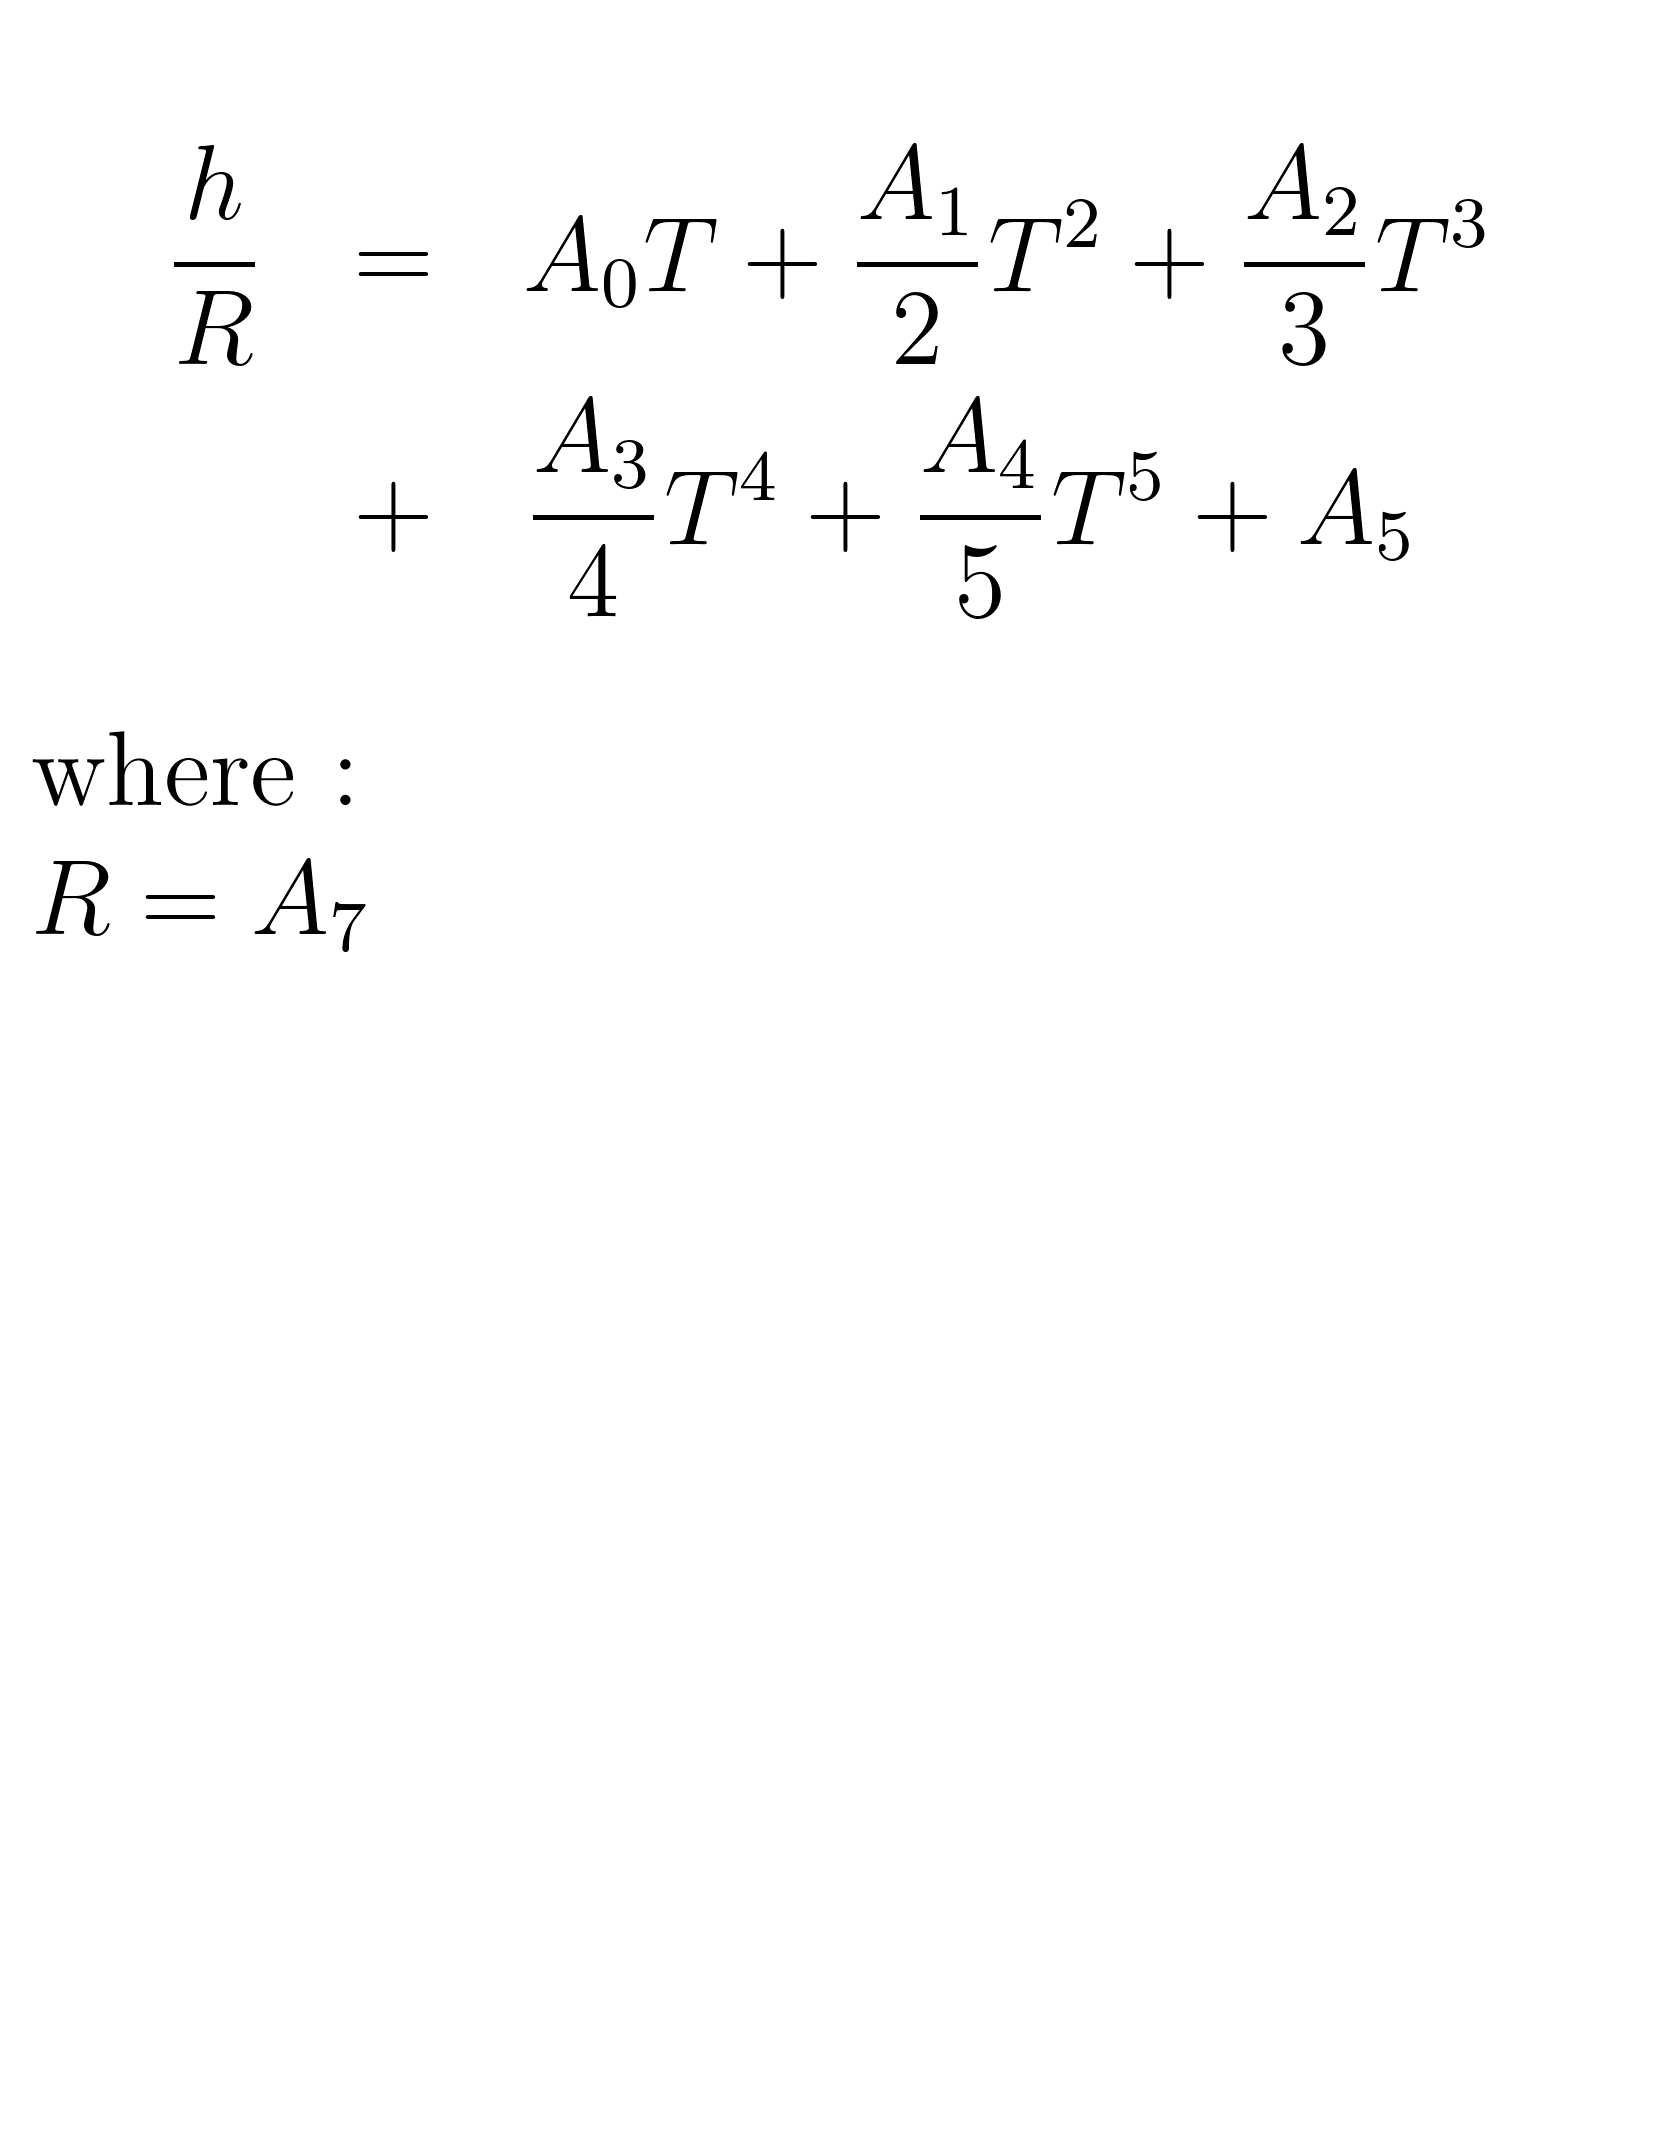
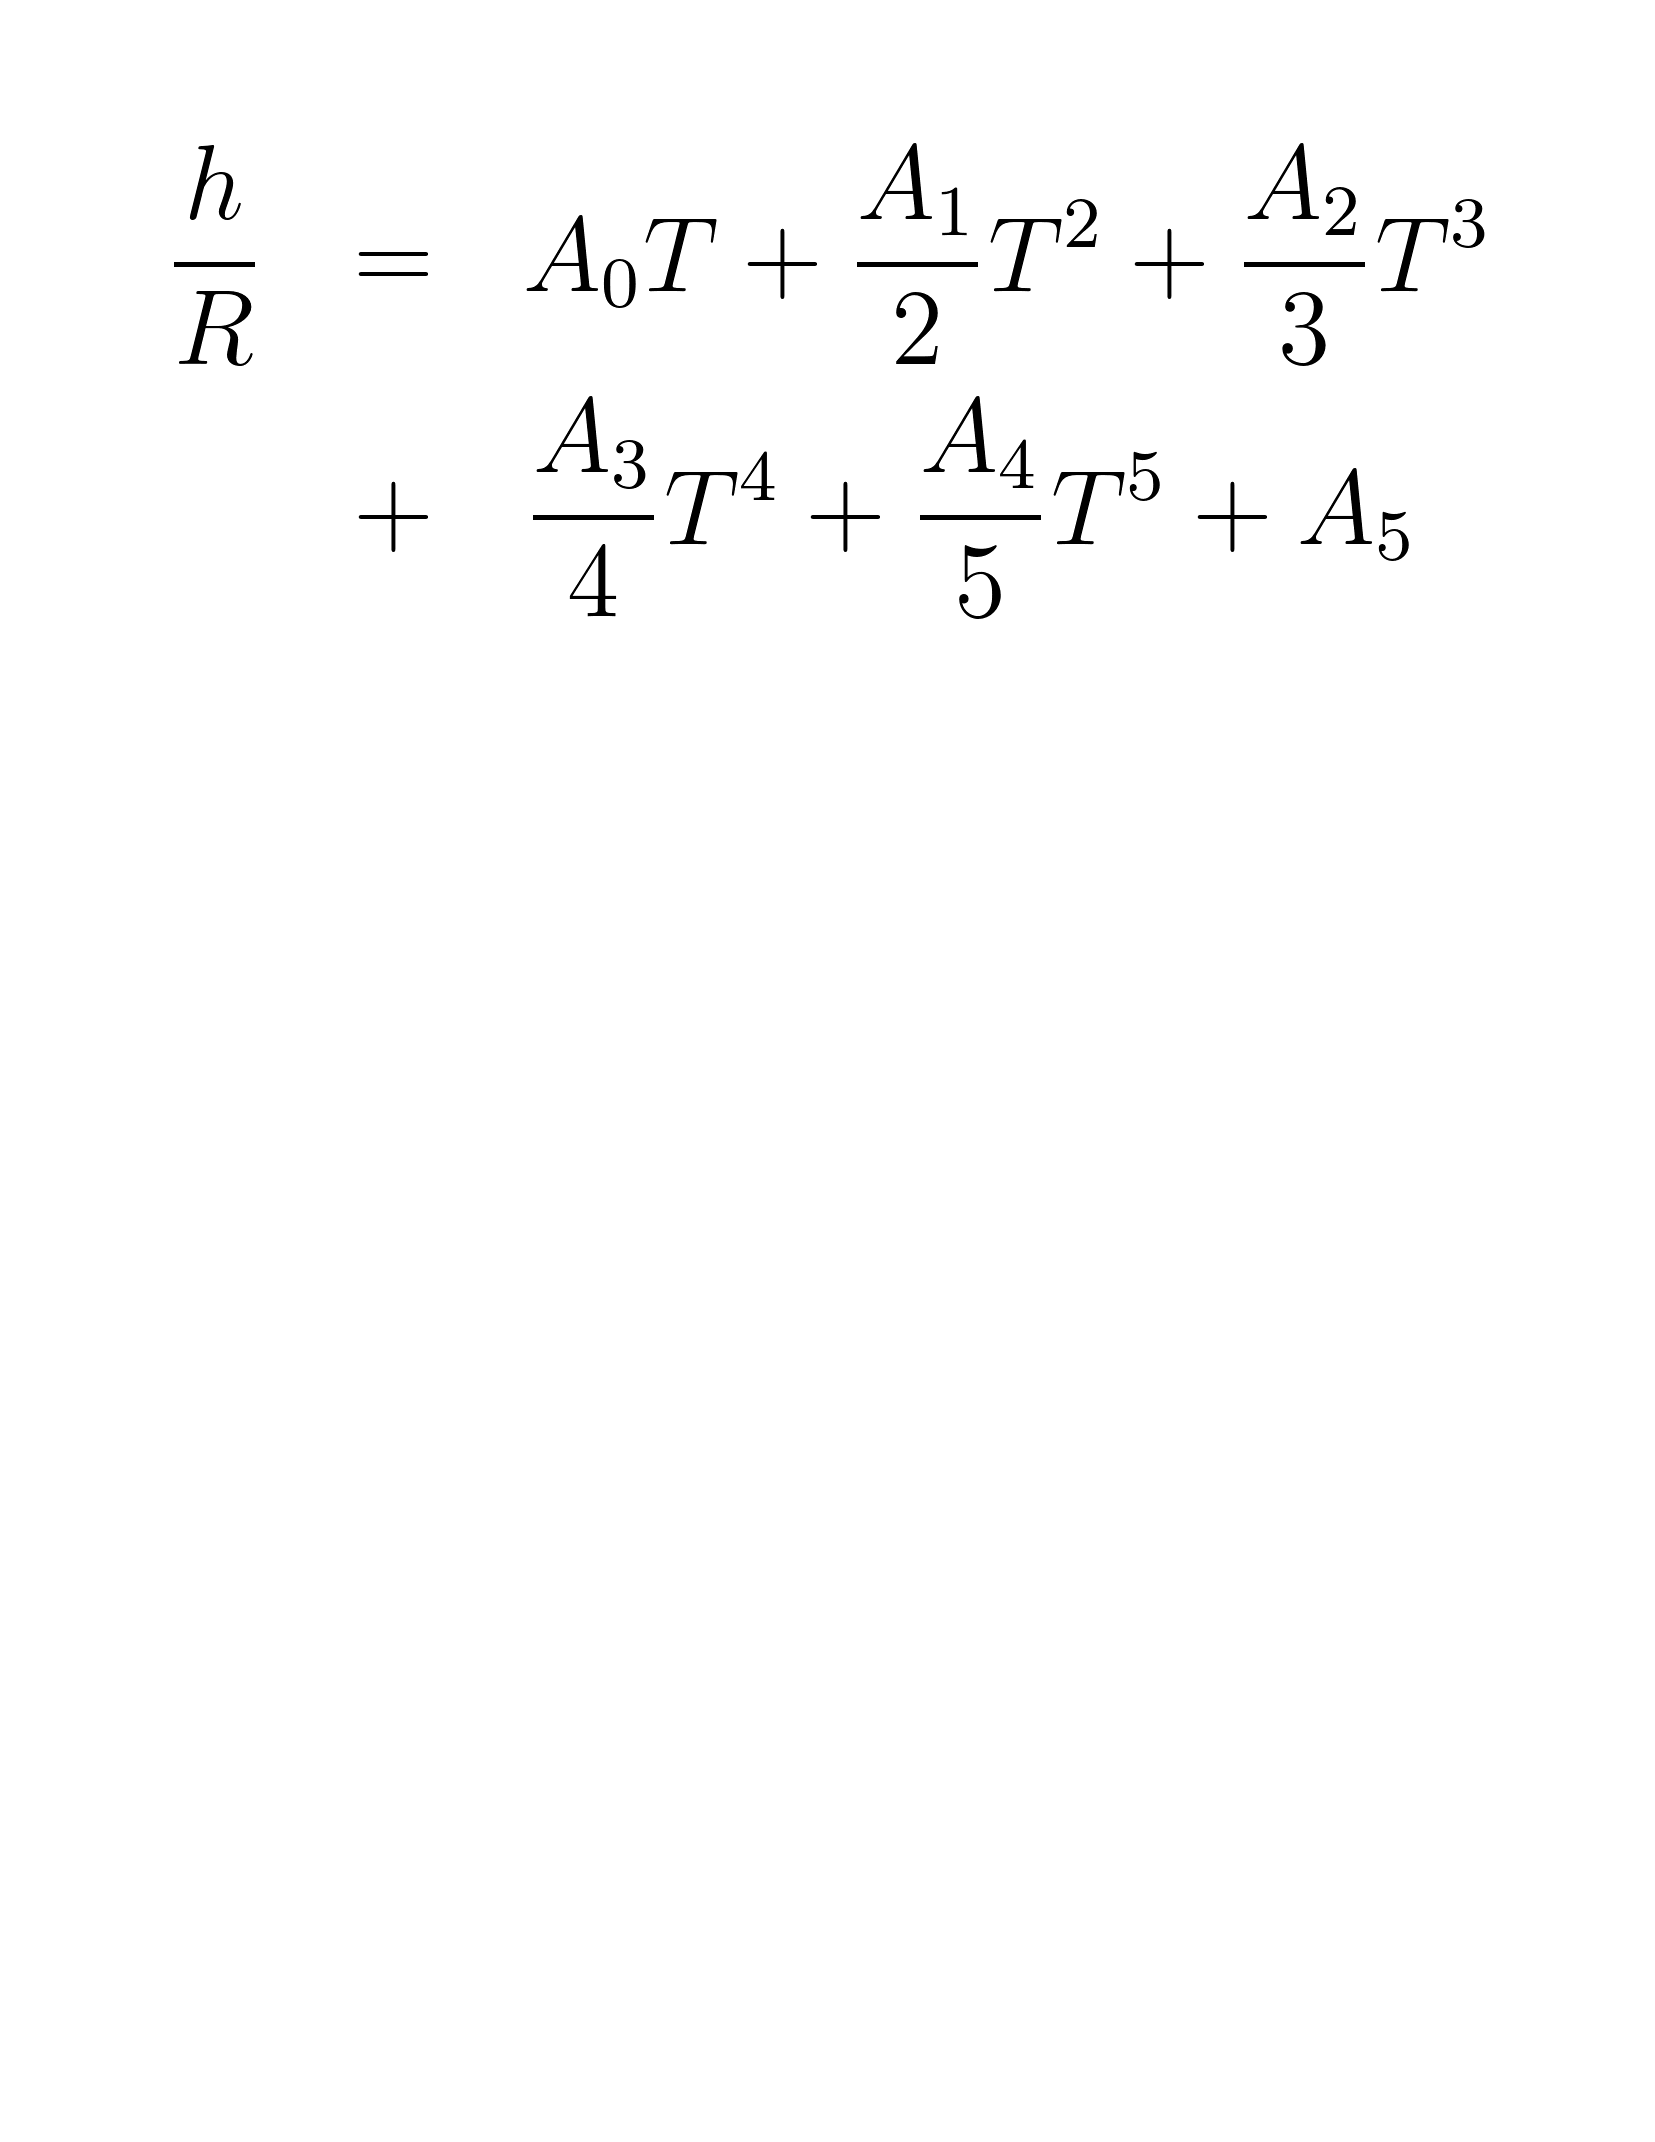
more corrected information

diff --git a/polymorph/polymorph/ancillary_1.tex b/polymorph/polymorph/ancillary_1.tex
@@ -18,13 +18,13 @@
 \pagestyle{empty}
 \begin{document}
 \cfbox{white}{
+Solves for $P$ in
 \begin{eqnarray*}
-\ln \frac{P}{P_c} &=& \frac{T_c}{T}(A_0 \theta^{A_4}+ A_1\theta^{A_5}\\
- &+& A_2\theta^{A_6} + A_3\theta^{A_7})
+\ln \frac{P}{P_c} &=& \frac{T_c}{T}(A_0 \theta^{B_0}+ A_1\theta^{B_1}\\
+ &+& A_2\theta^{B_2} + A_3\theta^{B_3})
 \end{eqnarray*}
 where:\\
 $\theta = 1.0 - T/T_c$\\
-$P_c = A_8$\\
-$T_c = A_9$\vspace{97pt}\\
+\vspace{104pt}\\
 }
 \end{document}

diff --git a/polymorph/polymorph/janaf_h.tex b/polymorph/polymorph/janaf_h.tex
@@ -22,7 +22,6 @@
 \frac{h}{R} &=& A_0 T + \frac{A_1}{2} T^2 + \frac{A_2}{3} T^3\\
  &+& \frac{A_3}{4} T^4 + \frac{A_4}{5} T^5 + A_5
 \end{eqnarray*}
-where :\\
-$R = A_7$ \vspace{119pt}\\
+\vspace{136pt}\\
 }
 \end{document}

diff --git a/polymorph/polymorph/janaf_s.tex b/polymorph/polymorph/janaf_s.tex
@@ -22,7 +22,6 @@
 \frac{s}{R} &=& A_0 \ln(T) + A_1 T + \frac{A_2}{2} T^2\\
  &+& \frac{A_3}{3} T^3 + \frac{A_4}{4} T^4 + A_6
 \end{eqnarray*}
-where :\\
-$R = A_7$ \vspace{119pt}\\
+\vspace{137pt}\\
 }
 \end{document}
